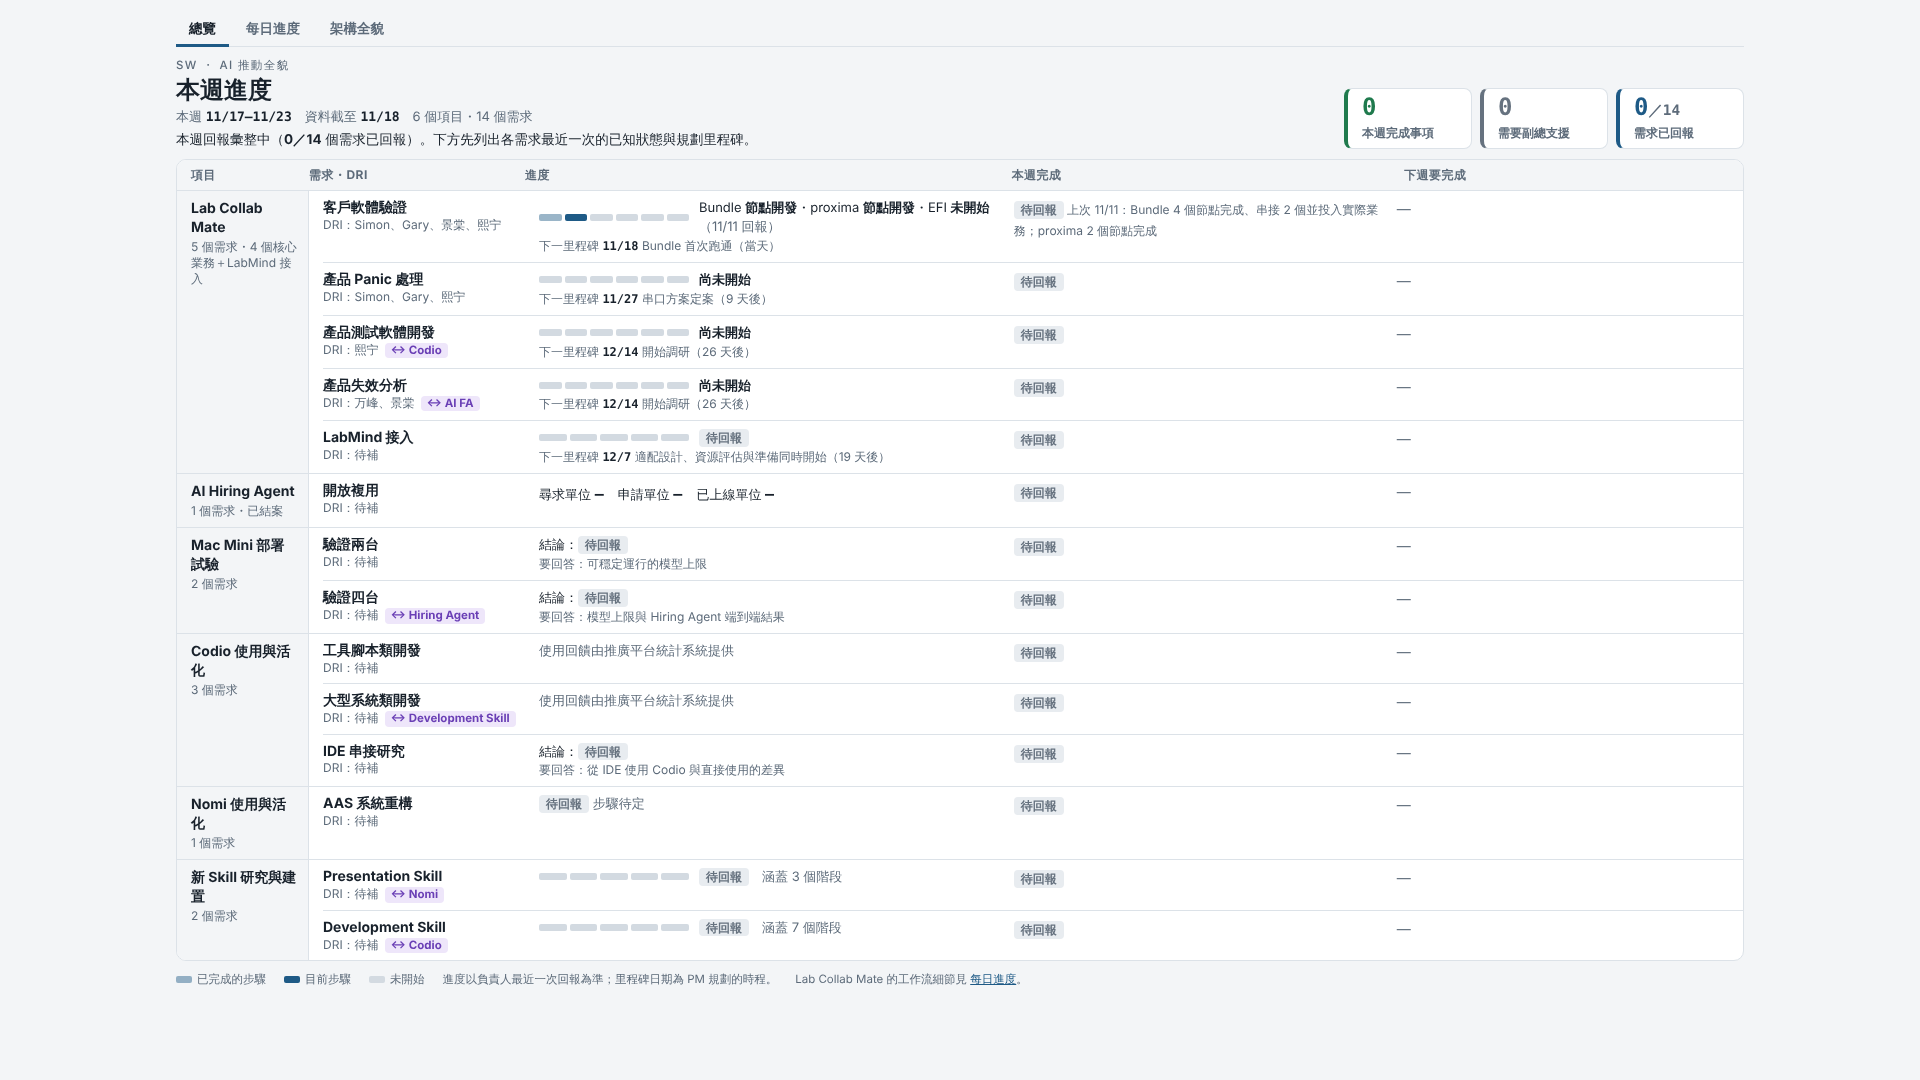
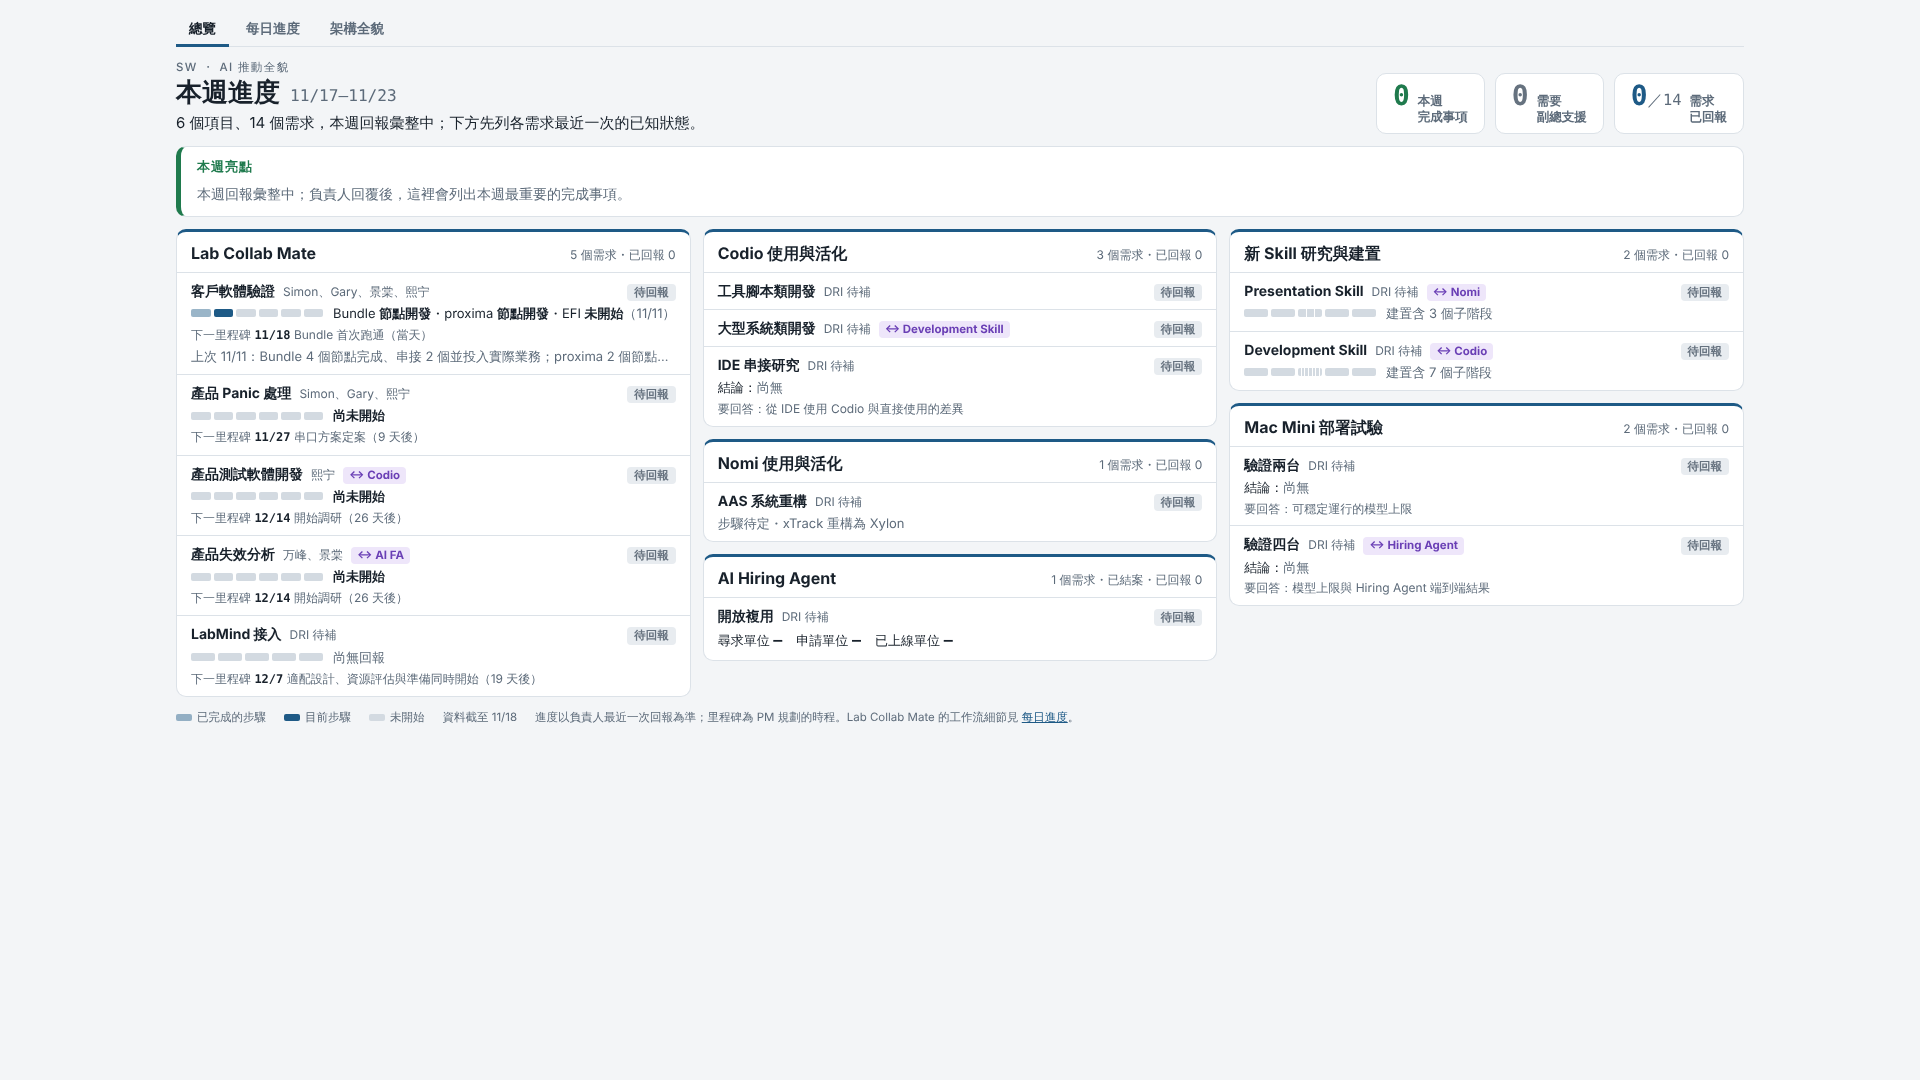
[2026-11-17_overview-redesign] 總覽頁改版：本週亮點＋6 張項目卡；Skill 階段改為建置的子階段
Claude-Session: https://claude.ai/code/session_01Cd6Gft6mTX8zcMZinAmXya

diff --git a/work/2026-11-17_overview-redesign/outputs/src/mock_overview.js b/work/2026-11-17_overview-redesign/outputs/src/mock_overview.js
@@ -1,0 +1,44 @@
+// 總覽頁「示意版」截圖：在瀏覽器記憶體裡填入示意回報，讓使用者看到資料齊全時的樣子。
+// 頁面頂部加紅色橫條標明「示意資料」。不修改 public/index.html；示意內容不是真實回報。
+// 用法：node mock_overview.js <repo 根目錄> <輸出 png>
+const { chromium } = require('playwright');
+const fs = require('fs');
+const path = require('path');
+const [root, out] = process.argv.slice(2);
+const src = fs.readFileSync(path.resolve(root, 'public', 'index.html'), 'utf8');
+
+const SAMPLE = {
+  '客戶軟體驗證': { now: [1, 2], subs: [['Bundle', 2], ['proxima', 1], ['EFI', 1]], hl: [0],
+    done: ['Bundle 正式數據首次跑通全流程', 'proxima 新增 2 個自動化節點'], next: ['Bundle 連續五次跑通', 'proxima 首次跑通'] },
+  '產品 Panic 處理': { now: -1, done: ['串口方案比較完成，建議只讀取結果'], next: ['11/27 前與 Simon、Gary 定案串口方案'] },
+  '產品測試軟體開發': { now: -1, done: [], next: ['整理 Codio 融入工作流的調研題目'] },
+  '產品失效分析': { now: -1, done: [], next: ['取得 AI FA 平台測試帳號'] },
+  'LabMind 接入': { now: 0, hl: [0], done: ['完成 LabMind 兩種接法比較，建議方案 B'], next: ['與 LabMind 團隊約定方案評審會'],
+    help: '需要副總協調 LabMind 團隊於 12/5 前安排方案評審' },
+  '工具腳本類開發': { done: ['IoT Team 新增 3 支 Codio 開發的檢測腳本'], next: ['協助 FA 再導入 1 個腳本情境'], hl: [0] },
+  '大型系統類開發': { done: ['InvestGo 需求完成需求梳理與 SRS 初稿'], next: ['InvestGo 原型設計評審'] },
+  'IDE 串接研究': { conclusion: 'VS Code 可直接呼叫 Codio，開發體驗接近原生', done: ['完成 VS Code 串接測試'], next: ['測試 JetBrains 系列 IDE'] },
+  'AAS 系統重構': { done: ['xTrack 既有模組盤點完成，共 18 個'], next: ['完成第一個模組重構'] },
+  '開放複用': { nums: { '尋求單位': 5, '申請單位': 3, '已上線單位': 1 }, hl: [0], done: ['財務處完成部署並開始試用'], next: ['協助品保處提交申請'] },
+  'Presentation Skill': { now: 2, subDone: 1, done: ['內容梳理子階段完成並在 3 份簡報試用'], next: ['完成風格與排版子階段'] },
+  'Development Skill': { now: 2, subDone: 2, hl: [0], done: ['需求梳理、SRS 子階段完成，以 InvestGo 驗證'], next: ['完成原型設計子階段'] },
+  '驗證兩台': { conclusion: '兩台可穩定運行 32B 模型，每秒約 12 字', done: ['完成 32B 模型 2 小時穩定性測試'], next: ['測試 70B 量化模型'] },
+  '驗證四台': { done: ['四台集群環境建置完成'], next: ['以 Hiring Agent 跑第一次端到端測試'] },
+};
+const inject = `
+const __S = ${JSON.stringify(SAMPLE)};
+PROJECTS.forEach(p => p.reqs.forEach(r => { if (__S[r.name]) r.rep = __S[r.name]; }));
+/* ===== 計算與呈現 ===== */`;
+const banner = '<div style="background:#B3261E;color:#fff;font-weight:700;text-align:center;font-size:13px;padding:3px 0">示意資料：以下內容為版面示意，不是真實回報</div>';
+const html = src.replace('/* ===== 計算與呈現 ===== */', inject).replace('<div class="wrap">', banner + '<div class="wrap">');
+
+(async () => {
+  const b = await chromium.launch();
+  const p = await b.newPage({ viewport: { width: 1440, height: 900 }, deviceScaleFactor: 2 });
+  await p.setContent(html);
+  await p.waitForTimeout(300);
+  const sh = await p.evaluate(() => document.documentElement.scrollHeight);
+  console.log(`示意版 1440x900 scrollHeight=${sh}（含示意橫條 約 25px）`);
+  await p.screenshot({ path: out });
+  await b.close();
+})();

diff --git a/work/2026-11-17_overview-redesign/outputs/data-template.md b/work/2026-11-17_overview-redesign/outputs/data-template.md
@@ -120,8 +120,8 @@ A. 驗證兩台　B. 驗證四台
 | | 大型系統類開發 | 推廣型（無數字） | 不問；共 3 題；與 Development Skill 共用 InvestGo 驗證 |
 | | IDE 串接研究 | 研究型 | 目前結論（從 IDE 用 Codio 與直接用的差異） |
 | Nomi 使用與活化 | AAS 系統重構 | 交付型 | 做到哪一步（步驟待定） |
-| 新 Skill 研究與建置 | Presentation Skill | 交付型 | 做到哪一步：現況調研／技能設計／建置／實測驗證／推廣接入；3 個階段完成幾個 |
-| | Development Skill | 交付型 | 做到哪一步：現況調研／技能設計／建置／實測驗證（InvestGo）／推廣接入；7 個階段完成幾個；與大型系統類開發共用 InvestGo 驗證 |
+| 新 Skill 研究與建置 | Presentation Skill | 交付型 | 做到哪一步：現況調研／技能設計／建置／實測驗證／推廣接入；在「建置」時，3 個子階段（目標／對象／架構／內容梳理、風格與排版、品管與檢查驗證）完成哪幾個 |
+| | Development Skill | 交付型 | 做到哪一步：現況調研／技能設計／建置／實測驗證（InvestGo）／推廣接入；在「建置」時，7 個子階段（需求梳理、SRS、原型設計、開發設計文檔、程式碼生成校正、上線運維、測試用例生成）完成哪幾個；與大型系統類開發共用 InvestGo 驗證 |
 
 ---
 
